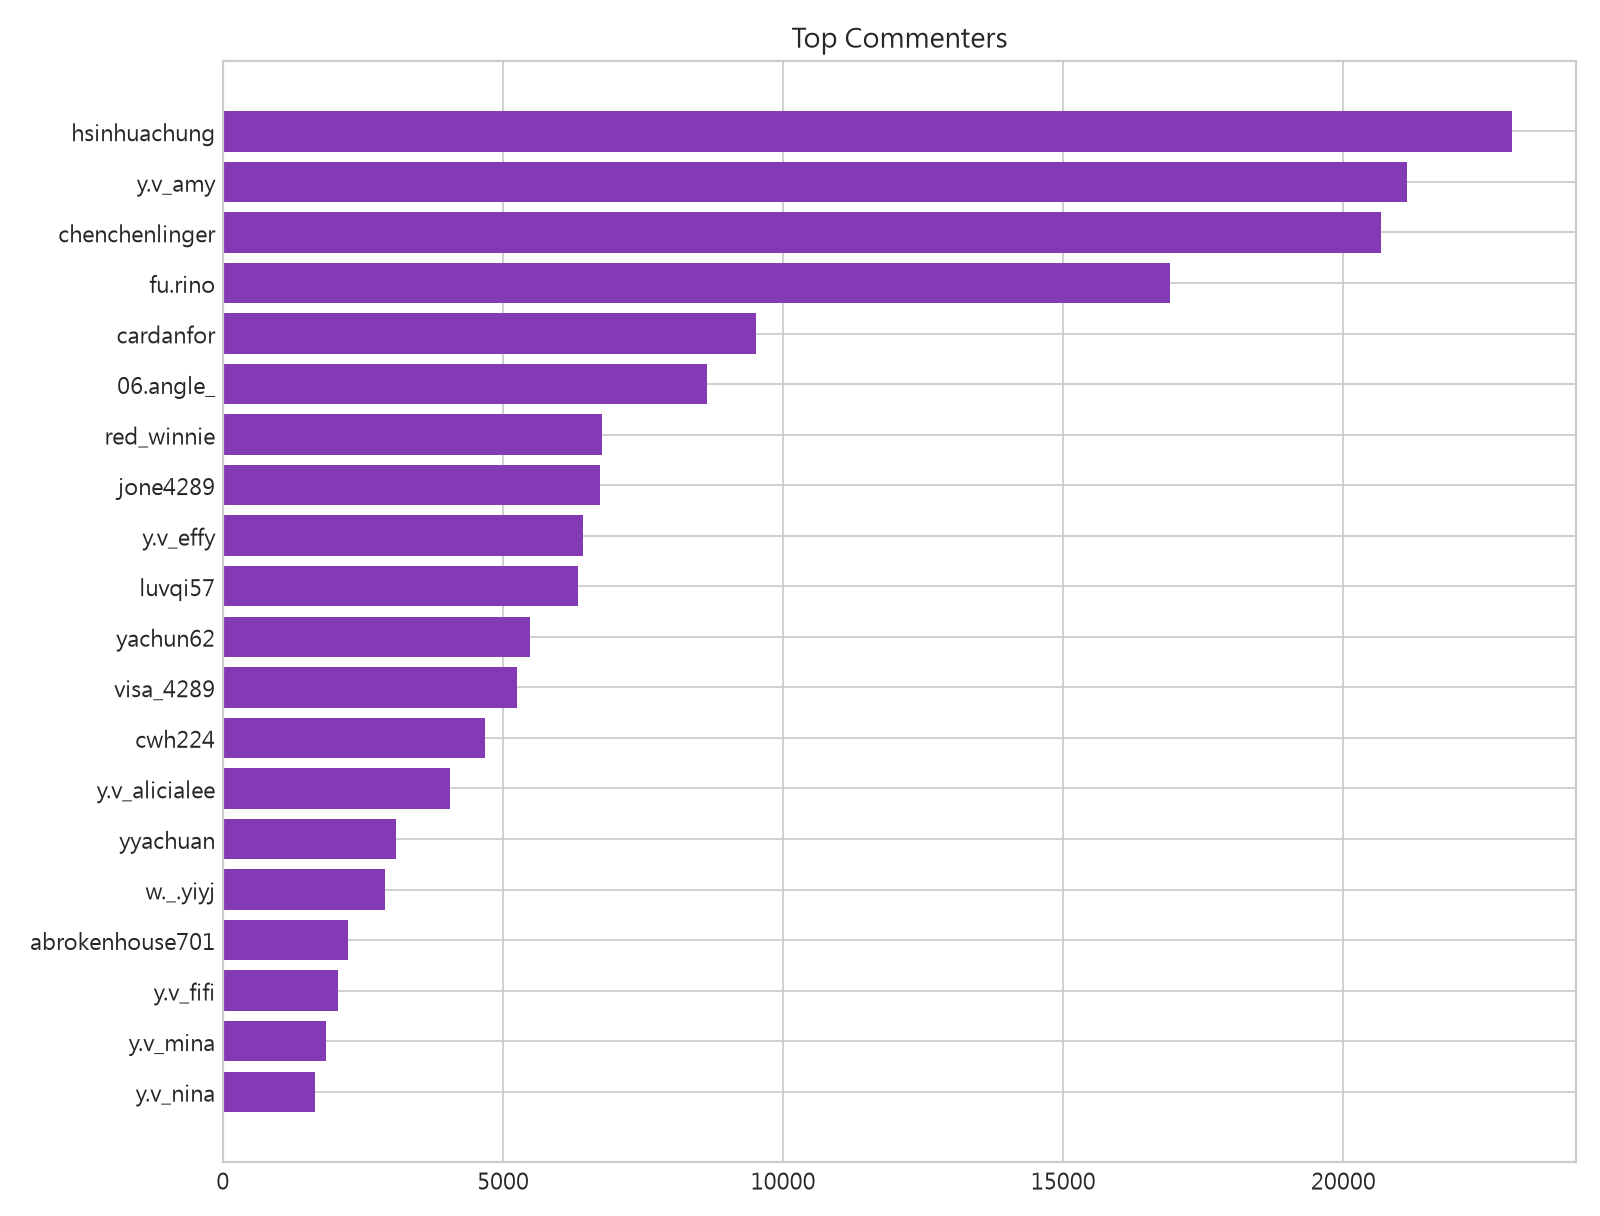
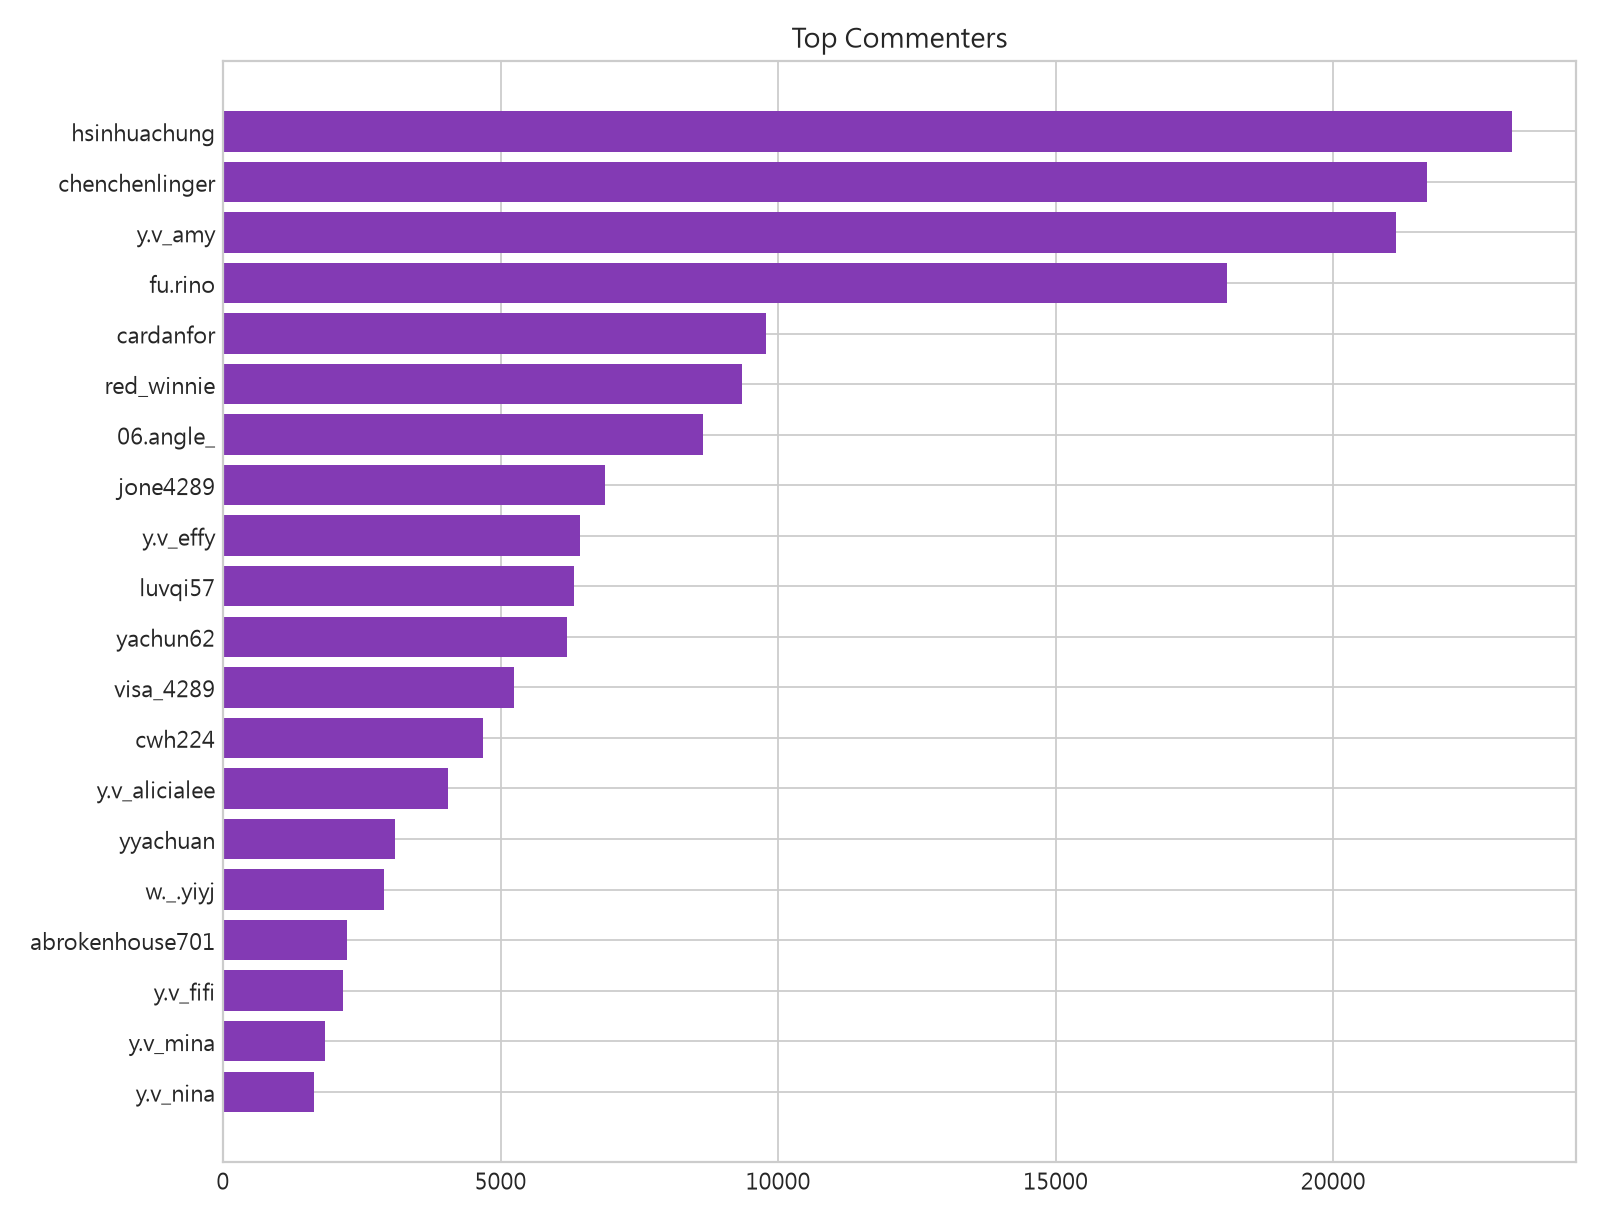
Refresh Pages report with comments through 2026-07-29 06:00.

diff --git a/docs/index.html b/docs/index.html
@@ -11,11 +11,11 @@
 <main class="container pb-5">
  <h2 class="h4 mb-3">基本統計</h2><div class="row g-3 mb-4">
  
- <div class="col-6 col-lg-3"><div class="card p-3"><small class="text-muted">總留言數</small><strong class="fs-3">227600</strong></div></div>
- <div class="col-6 col-lg-3"><div class="card p-3"><small class="text-muted">唯一留言者</small><strong class="fs-3">1338</strong></div></div>
+ <div class="col-6 col-lg-3"><div class="card p-3"><small class="text-muted">總留言數</small><strong class="fs-3">234429</strong></div></div>
+ <div class="col-6 col-lg-3"><div class="card p-3"><small class="text-muted">唯一留言者</small><strong class="fs-3">1340</strong></div></div>
  <div class="col-6 col-lg-3"><div class="card p-3"><small class="text-muted">平均留言長度</small><strong class="fs-3">25.45</strong></div></div>
- <div class="col-6 col-lg-3"><div class="card p-3"><small class="text-muted">應援留言數</small><strong class="fs-3">227800</strong></div></div>
- </div><p>留言最多的人：<strong>hsinhuachung</strong>｜應援隊伍數：<strong>94</strong></p>
+ <div class="col-6 col-lg-3"><div class="card p-3"><small class="text-muted">應援留言數</small><strong class="fs-3">234625</strong></div></div>
+ </div><p>留言最多的人：<strong>hsinhuachung</strong>｜應援隊伍數：<strong>95</strong></p>
 
  <div class="row g-4 mb-4">
   <div class="col-12 col-lg-6"><div class="card p-3"><h2 class="h5">應援隊伍排行</h2><img class="chart" src="assets/team_votes.png" alt="應援隊伍排行"></div></div>
@@ -23,8 +23,8 @@
  </div>
 
  <div class="row g-4 mb-4">
-  <div class="col-12 col-lg-6"><div class="card p-3"><h2 class="h5">Top 20 應援隊伍</h2><table class="table"><thead><tr><th>隊伍</th><th>票數</th></tr></thead><tbody><tr><td>YVIE GIRLS</td><td>137186</td></tr><tr><td>北一街舞貳拾肆屆</td><td>43693</td></tr><tr><td>SYKIDZ JN</td><td>16555</td></tr><tr><td>美少女戰士</td><td>8352</td></tr><tr><td>MIXCIN ZAZA</td><td>4680</td></tr><tr><td>BUBBLE GUN</td><td>4227</td></tr><tr><td>THE MIXCIN</td><td>2371</td></tr><tr><td>HKG</td><td>1731</td></tr><tr><td>MIXCIN PASSION</td><td>1633</td></tr><tr><td>MOOSE</td><td>1486</td></tr><tr><td>SYKIDZ REI</td><td>1247</td></tr><tr><td>CRAZY WEDNESDAY</td><td>783</td></tr><tr><td>MIXCIN NOVA</td><td>456</td></tr><tr><td>RAIN CITY KIDZ</td><td>432</td></tr><tr><td>MIXCIN BOSSY</td><td>327</td></tr><tr><td>MINI DSDJ</td><td>276</td></tr><tr><td>北一鎖舞第十七屆</td><td>236</td></tr><tr><td>MIXCIN NOVA加油</td><td>227</td></tr><tr><td>北一 街舞貳拾肆屆</td><td>193</td></tr><tr><td>北ㄧ街舞貳拾肆屆</td><td>177</td></tr></tbody></table></div></div>
-  <div class="col-12 col-lg-6"><div class="card p-3"><h2 class="h5">Top 20 留言者</h2><table class="table"><tbody><tr><td>hsinhuachung</td><td>23000</td></tr><tr><td>y.v_amy</td><td>21125</td></tr><tr><td>chenchenlinger</td><td>20675</td></tr><tr><td>fu.rino</td><td>16899</td></tr><tr><td>cardanfor</td><td>9519</td></tr><tr><td>06.angle_</td><td>8644</td></tr><tr><td>red_winnie</td><td>6771</td></tr><tr><td>jone4289</td><td>6730</td></tr><tr><td>y.v_effy</td><td>6424</td></tr><tr><td>luvqi57</td><td>6332</td></tr><tr><td>yachun62</td><td>5480</td></tr><tr><td>visa_4289</td><td>5247</td></tr><tr><td>cwh224</td><td>4676</td></tr><tr><td>y.v_alicialee</td><td>4049</td></tr><tr><td>yyachuan</td><td>3092</td></tr><tr><td>w._.yiyj</td><td>2893</td></tr><tr><td>abrokenhouse701</td><td>2231</td></tr><tr><td>y.v_fifi</td><td>2045</td></tr><tr><td>y.v_mina</td><td>1836</td></tr><tr><td>y.v_nina</td><td>1648</td></tr></tbody></table></div></div>
+  <div class="col-12 col-lg-6"><div class="card p-3"><h2 class="h5">Top 20 應援隊伍</h2><table class="table"><thead><tr><th>隊伍</th><th>票數</th></tr></thead><tbody><tr><td>YVIE GIRLS</td><td>141245</td></tr><tr><td>北一街舞貳拾肆屆</td><td>43693</td></tr><tr><td>SYKIDZ JN</td><td>19312</td></tr><tr><td>美少女戰士</td><td>8352</td></tr><tr><td>MIXCIN ZAZA</td><td>4680</td></tr><tr><td>BUBBLE GUN</td><td>4227</td></tr><tr><td>THE MIXCIN</td><td>2371</td></tr><tr><td>HKG</td><td>1731</td></tr><tr><td>MIXCIN PASSION</td><td>1633</td></tr><tr><td>MOOSE</td><td>1486</td></tr><tr><td>SYKIDZ REI</td><td>1247</td></tr><tr><td>CRAZY WEDNESDAY</td><td>783</td></tr><tr><td>MIXCIN NOVA</td><td>456</td></tr><tr><td>RAIN CITY KIDZ</td><td>432</td></tr><tr><td>MIXCIN BOSSY</td><td>327</td></tr><tr><td>MINI DSDJ</td><td>276</td></tr><tr><td>北一鎖舞第十七屆</td><td>236</td></tr><tr><td>MIXCIN NOVA加油</td><td>227</td></tr><tr><td>北一 街舞貳拾肆屆</td><td>193</td></tr><tr><td>北ㄧ街舞貳拾肆屆</td><td>177</td></tr></tbody></table></div></div>
+  <div class="col-12 col-lg-6"><div class="card p-3"><h2 class="h5">Top 20 留言者</h2><table class="table"><tbody><tr><td>hsinhuachung</td><td>23212</td></tr><tr><td>chenchenlinger</td><td>21695</td></tr><tr><td>y.v_amy</td><td>21125</td></tr><tr><td>fu.rino</td><td>18080</td></tr><tr><td>cardanfor</td><td>9776</td></tr><tr><td>red_winnie</td><td>9353</td></tr><tr><td>06.angle_</td><td>8644</td></tr><tr><td>jone4289</td><td>6887</td></tr><tr><td>y.v_effy</td><td>6424</td></tr><tr><td>luvqi57</td><td>6332</td></tr><tr><td>yachun62</td><td>6201</td></tr><tr><td>visa_4289</td><td>5247</td></tr><tr><td>cwh224</td><td>4676</td></tr><tr><td>y.v_alicialee</td><td>4049</td></tr><tr><td>yyachuan</td><td>3092</td></tr><tr><td>w._.yiyj</td><td>2893</td></tr><tr><td>abrokenhouse701</td><td>2231</td></tr><tr><td>y.v_fifi</td><td>2166</td></tr><tr><td>y.v_mina</td><td>1836</td></tr><tr><td>y.v_nina</td><td>1648</td></tr></tbody></table></div></div>
  </div>
 
  <div class="row g-4 mb-4">
@@ -42,6 +42,6 @@
  </div>
 
  <div class="row g-4">
-  <div class="col-12"><div class="card p-3"><h2 class="h5">重複留言（前 20 筆）</h2><table class="table"><thead><tr><th>類型</th><th>留言</th><th>說明</th><th>相似度</th></tr></thead><tbody><tr><td>exact</td><td>2026新北國際街舞大賽 我挺YVIE GIRLS!</td><td>y.v_amy×21083, chenchenlinger×20655, hsinhuachung×13072, y.v_alicialee×3647, fu.rino×2062</td><td>1.0</td></tr><tr><td>exact</td><td>2026新北國際街舞大賽 我挺YVIE GIRLS！</td><td>hsinhuachung×6989, jone4289×6701, y.v_effy×6364, yachun62×5444, yyachuan×1989</td><td>1.0</td></tr><tr><td>exact</td><td>2026新北國際街舞大賽，我挺SYKIDZ REI ❤</td><td>feishan33__×4</td><td>1.0</td></tr><tr><td>exact</td><td>2026新北國際街舞大賽 我挺北一街舞貳拾肆屆！</td><td>06.angle_×8587, luvqi57×6302, abrokenhouse701×2205, theyreeeeeasshole×1558, tongjing.chen×1504</td><td>1.0</td></tr><tr><td>exact</td><td>2026新北國際街舞大賽 我挺北一街舞貳拾肆屆！2026新北國際街舞大賽 我挺北一街舞貳拾肆屆！</td><td>73zs._×37, meow_meow_meow_iii×23, 06.angle_×18, hardto.choose×15, luvqi57×15</td><td>1.0</td></tr><tr><td>exact</td><td>2026新北國際街舞大賽 我挺北一街舞貳拾肆屆���</td><td>06.angle_×3</td><td>1.0</td></tr><tr><td>exact</td><td>2026新北國際街舞大賽 我挺SYKIDZ JN</td><td>red_winnie×4718, zaq._.1212×290, _12nnnnn_×124, lr._.02_23×83, sa._.0212_×83</td><td>1.0</td></tr><tr><td>exact</td><td>2026新北國際街舞大賽 我挺YVIE GIRLS</td><td>cardanfor×9497, y.v_fifi×1823, hsinhuachung×1657, y.v_alicialee×56, gwc._.0904×39</td><td>1.0</td></tr><tr><td>exact</td><td>2026新北國際街舞大賽 我挺SYKIDZ JN!</td><td>_1cnn.cky×573, luo_zin_ing×325, 77zzzzzz__×193, yyc_.51×160, mimmy.syk×114</td><td>1.0</td></tr><tr><td>exact</td><td>2026新北國際街舞大賽 我挺SYKIDZ REI!</td><td>o.627._.yo×3</td><td>1.0</td></tr><tr><td>exact</td><td>2026新北國際街舞大賽 我挺SYKIDZ REI</td><td>_im.ys2×267, shiao_423×184, _7kzzc×123, celia__xin×77, oogeshon×75</td><td>1.0</td></tr><tr><td>exact</td><td>2026新北國際街舞大賽 我挺YVIE GIRLS! 2026新北國際街舞大賽 我挺YVIE GIRLS!</td><td>hsinhuachung×40</td><td>1.0</td></tr><tr><td>exact</td><td>2026新北國際街舞大賽我挺MIXCIN ZAZA🐆🔱</td><td>candicekang83×248, 09._hanhan×92, 09._.sihan×88, _xin.0604×46, 0824eva_15y×31</td><td>1.0</td></tr><tr><td>exact</td><td>2026新北國際街舞大賽我挺MIXCIN ZAZA🐆</td><td>glitch_06_13×913, hsu_.1129×26, smal.l_jus×21, yshinun×16, cutie.yu_2222×5</td><td>1.0</td></tr><tr><td>exact</td><td>2026 新北國際街舞大賽 我挺 MIXCIN ZAZA❤🔥</td><td>clds._.4683×137</td><td>1.0</td></tr><tr><td>exact</td><td>2026新北國際街舞大賽 我挺 必比登六星⭐</td><td>lynnkang46×20</td><td>1.0</td></tr><tr><td>exact</td><td>2026 新北國際街舞大賽 我挺 MIXCIN ZAZA</td><td>clds._.4683×7</td><td>1.0</td></tr><tr><td>exact</td><td>2026新北國際街舞大賽 我挺THE MIXCIN!!</td><td>tanya_and_cindy_mom×329, chloe0311_×35</td><td>1.0</td></tr><tr><td>exact</td><td>2026 新北國際街舞大賽 我挺 必比登六星🌟</td><td>papa.0401×23, clds._.4683×10, lynnkang46×2</td><td>1.0</td></tr><tr><td>exact</td><td>2026 新北國際街舞大賽 我挺 MIXCIN ZAZA😍🐆</td><td>papa.0401×59</td><td>1.0</td></tr></tbody></table></div></div>
+  <div class="col-12"><div class="card p-3"><h2 class="h5">重複留言（前 20 筆）</h2><table class="table"><thead><tr><th>類型</th><th>留言</th><th>說明</th><th>相似度</th></tr></thead><tbody><tr><td>exact</td><td>2026新北國際街舞大賽 我挺YVIE GIRLS!</td><td>chenchenlinger×21673, y.v_amy×21083, hsinhuachung×13072, y.v_alicialee×3647, fu.rino×2062</td><td>1.0</td></tr><tr><td>exact</td><td>2026新北國際街舞大賽 我挺YVIE GIRLS！</td><td>hsinhuachung×7201, jone4289×6858, y.v_effy×6364, yachun62×6163, yyachuan×1989</td><td>1.0</td></tr><tr><td>exact</td><td>2026新北國際街舞大賽，我挺SYKIDZ REI ❤</td><td>feishan33__×4</td><td>1.0</td></tr><tr><td>exact</td><td>2026新北國際街舞大賽 我挺北一街舞貳拾肆屆！</td><td>06.angle_×8587, luvqi57×6302, abrokenhouse701×2205, theyreeeeeasshole×1558, tongjing.chen×1504</td><td>1.0</td></tr><tr><td>exact</td><td>2026新北國際街舞大賽 我挺北一街舞貳拾肆屆！2026新北國際街舞大賽 我挺北一街舞貳拾肆屆！</td><td>73zs._×37, meow_meow_meow_iii×23, 06.angle_×18, hardto.choose×15, luvqi57×15</td><td>1.0</td></tr><tr><td>exact</td><td>2026新北國際街舞大賽 我挺北一街舞貳拾肆屆���</td><td>06.angle_×3</td><td>1.0</td></tr><tr><td>exact</td><td>2026新北國際街舞大賽 我挺SYKIDZ JN</td><td>red_winnie×7257, zaq._.1212×290, lr._.02_23×195, sa._.0212_×151, _12nnnnn_×124</td><td>1.0</td></tr><tr><td>exact</td><td>2026新北國際街舞大賽 我挺YVIE GIRLS</td><td>cardanfor×9754, y.v_fifi×1944, hsinhuachung×1657, y.v_alicialee×56, gwc._.0904×39</td><td>1.0</td></tr><tr><td>exact</td><td>2026新北國際街舞大賽 我挺SYKIDZ JN!</td><td>_1cnn.cky×573, luo_zin_ing×325, 77zzzzzz__×193, yyc_.51×160, mimmy.syk×114</td><td>1.0</td></tr><tr><td>exact</td><td>2026新北國際街舞大賽 我挺SYKIDZ REI!</td><td>o.627._.yo×3</td><td>1.0</td></tr><tr><td>exact</td><td>2026新北國際街舞大賽 我挺SYKIDZ REI</td><td>_im.ys2×267, shiao_423×184, _7kzzc×123, celia__xin×77, oogeshon×75</td><td>1.0</td></tr><tr><td>exact</td><td>2026新北國際街舞大賽 我挺YVIE GIRLS! 2026新北國際街舞大賽 我挺YVIE GIRLS!</td><td>hsinhuachung×40</td><td>1.0</td></tr><tr><td>exact</td><td>2026新北國際街舞大賽我挺MIXCIN ZAZA🐆🔱</td><td>candicekang83×248, 09._hanhan×92, 09._.sihan×88, _xin.0604×46, 0824eva_15y×31</td><td>1.0</td></tr><tr><td>exact</td><td>2026新北國際街舞大賽我挺MIXCIN ZAZA🐆</td><td>glitch_06_13×913, hsu_.1129×26, smal.l_jus×21, yshinun×16, cutie.yu_2222×5</td><td>1.0</td></tr><tr><td>exact</td><td>2026 新北國際街舞大賽 我挺 MIXCIN ZAZA❤🔥</td><td>clds._.4683×137</td><td>1.0</td></tr><tr><td>exact</td><td>2026新北國際街舞大賽 我挺 必比登六星⭐</td><td>lynnkang46×20</td><td>1.0</td></tr><tr><td>exact</td><td>2026 新北國際街舞大賽 我挺 MIXCIN ZAZA</td><td>clds._.4683×7</td><td>1.0</td></tr><tr><td>exact</td><td>2026新北國際街舞大賽 我挺THE MIXCIN!!</td><td>tanya_and_cindy_mom×329, chloe0311_×35</td><td>1.0</td></tr><tr><td>exact</td><td>2026 新北國際街舞大賽 我挺 必比登六星🌟</td><td>papa.0401×23, clds._.4683×10, lynnkang46×2</td><td>1.0</td></tr><tr><td>exact</td><td>2026 新北國際街舞大賽 我挺 MIXCIN ZAZA😍🐆</td><td>papa.0401×59</td><td>1.0</td></tr></tbody></table></div></div>
  </div>
 </main></body></html>
